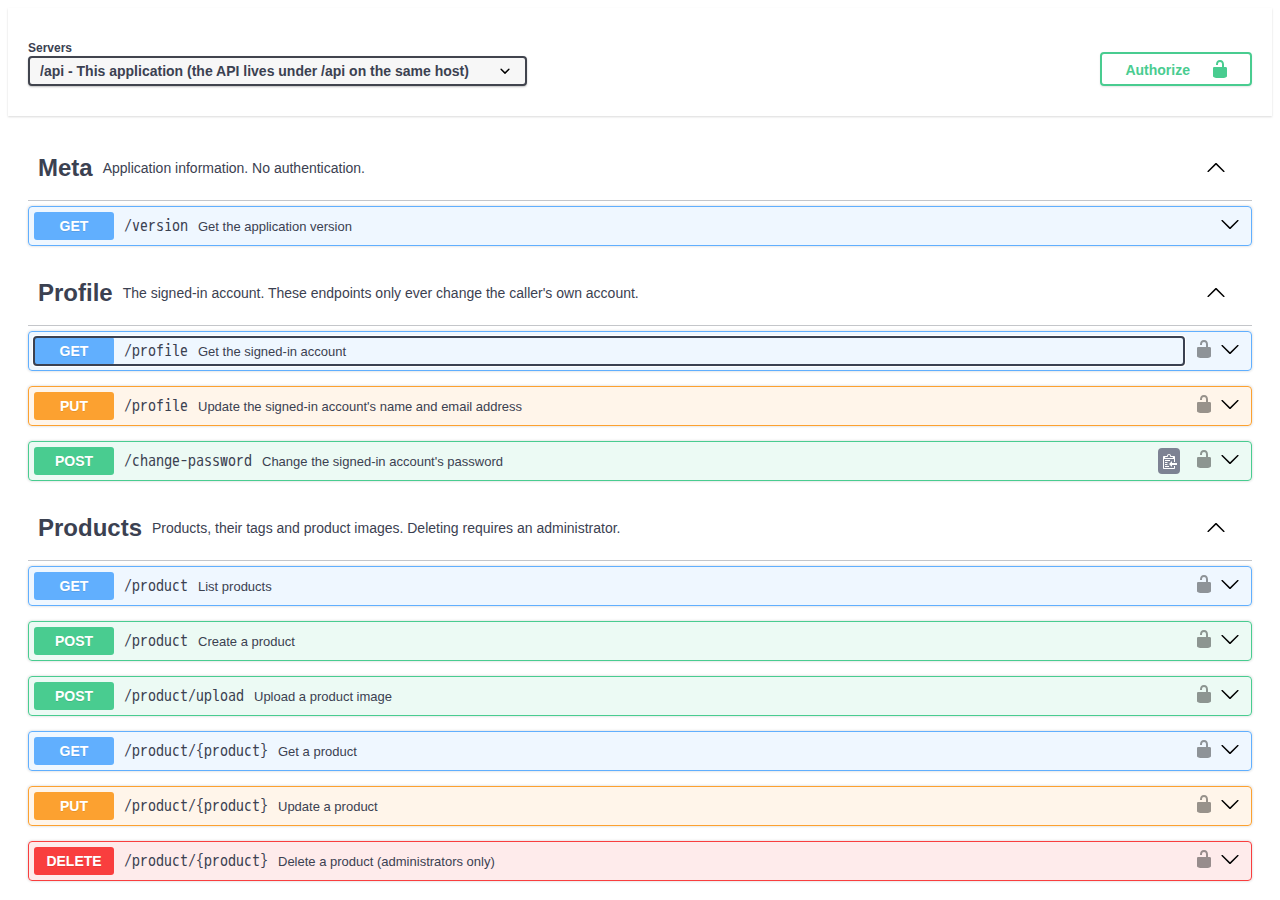
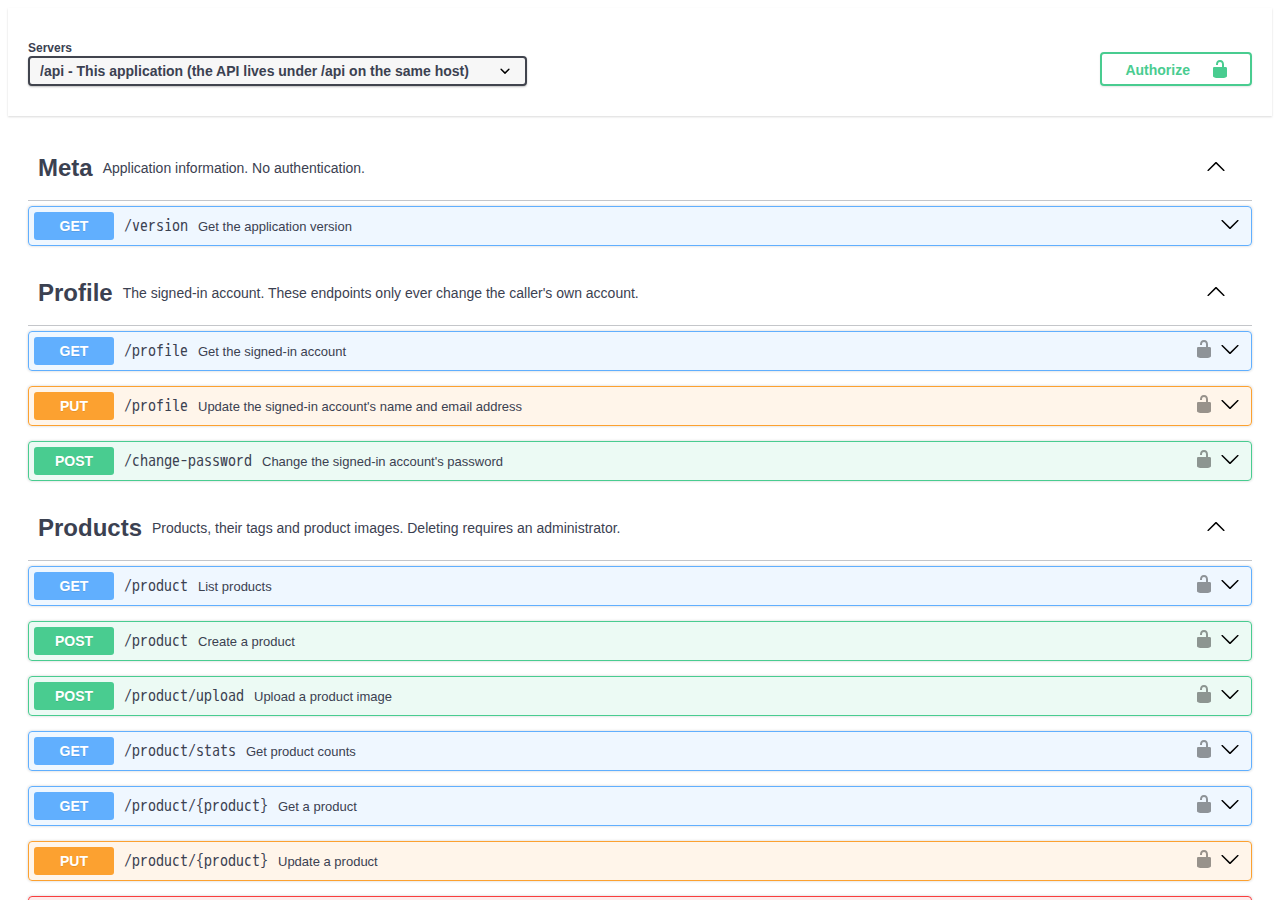
docs: retake the API documentation screenshot
The old screenshot of /docs was taken before the product catalogue and the
new logo, so it did not show GET /api/product/stats. It was retaken with
Chromium from the Playwright image (1280x900) against the E2E stack, signed
in as a throwaway administrator. The README now shows it in the "API
documentation" section; before, no document linked to it.

diff --git a/README.md b/README.md
@@ -256,6 +256,8 @@ The application shows the document in Swagger UI at `/docs` (for example
 <http://localhost:8000/docs>) and serves the file at `/docs/openapi.yaml`.
 The viewer is bundled by Vite and loads nothing from a CDN.
 
+![The API documentation at /docs, showing the Meta, Profile and Products endpoints](docs/screenshots/api-docs.png)
+
 - With `APP_ENV=local`, both pages are on and anyone who can reach the app
   can open them.
 - In any other environment they are off and return 404. Set
